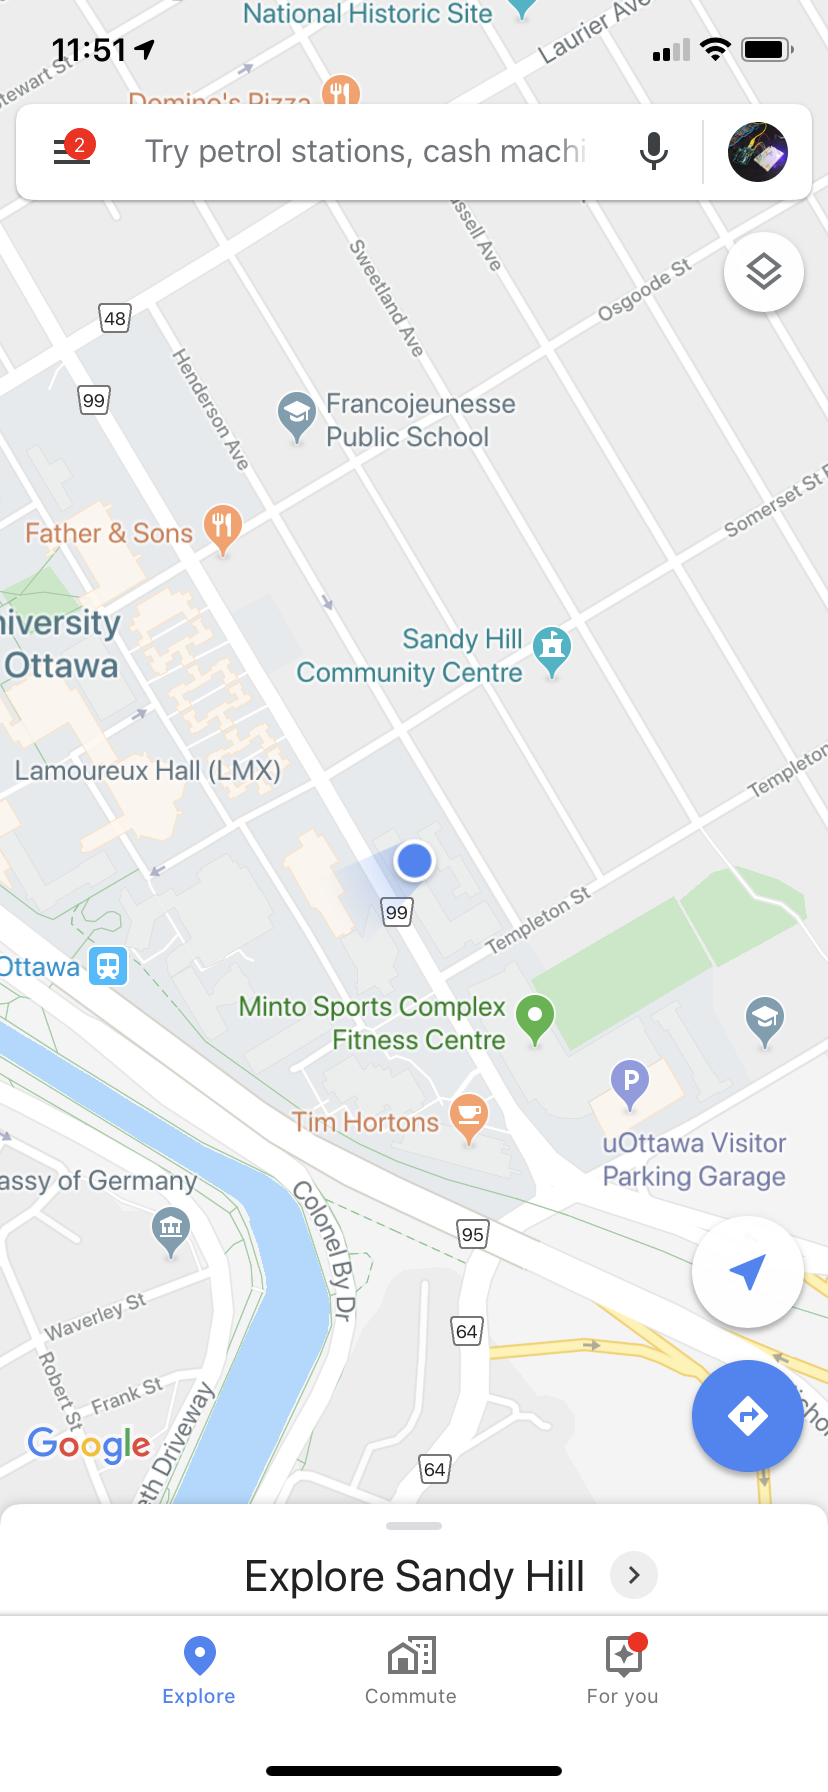
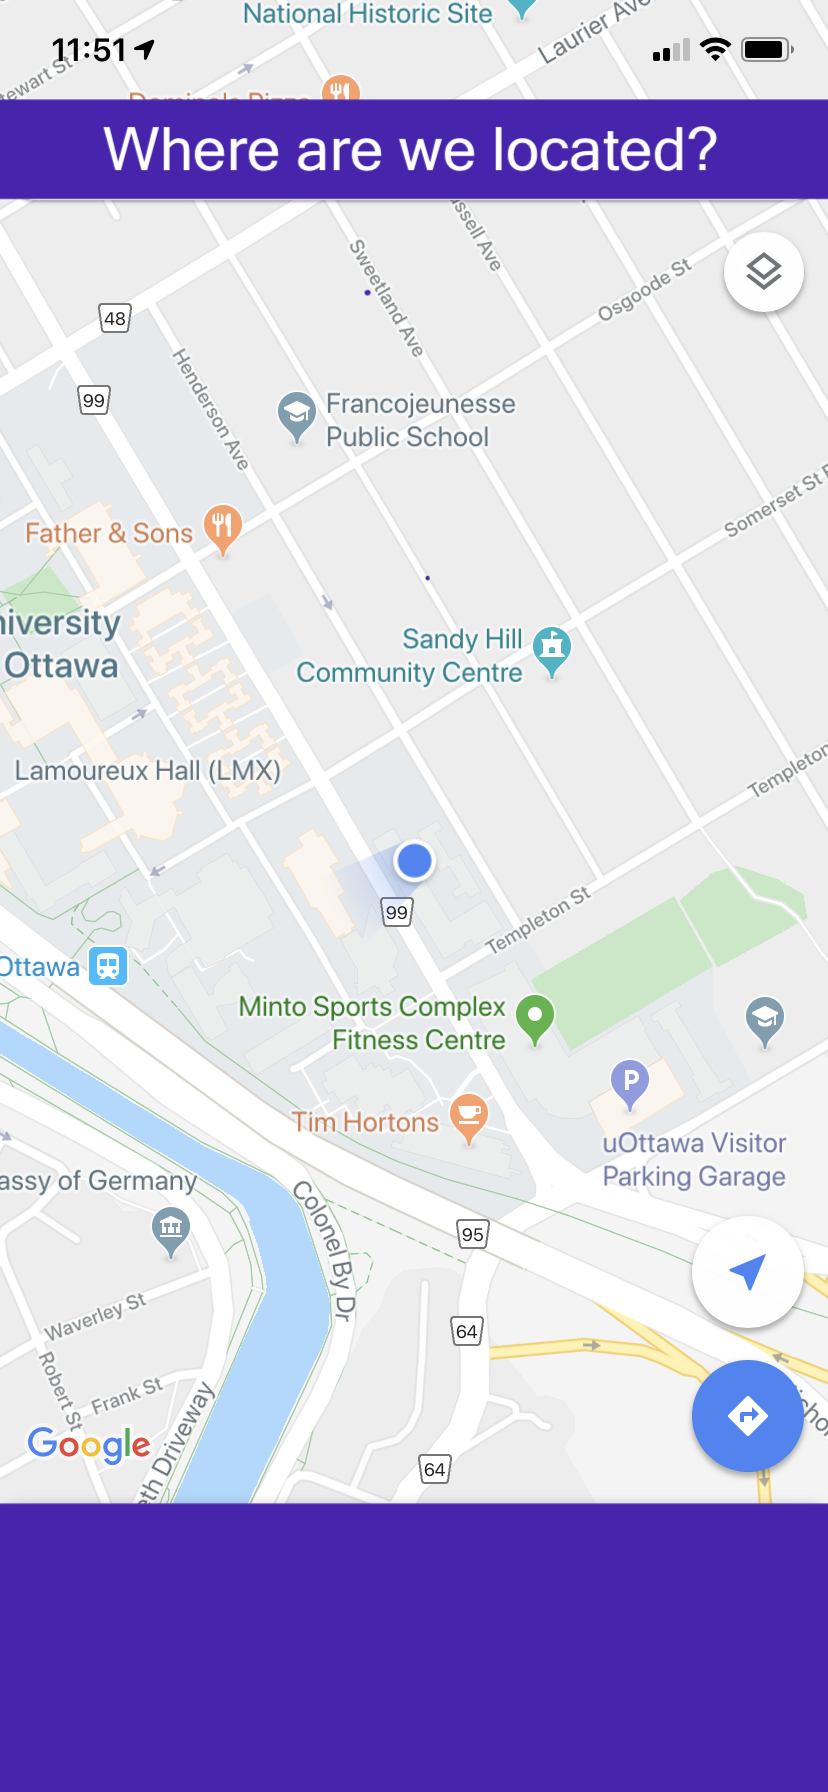
fixed phone on contact page:

Changed region(s): [[0.0, 0.8125, 1.0, 1.0], [0.0, 0.0312, 1.0, 0.125]]

diff --git a/style.css b/style.css
@@ -1000,14 +1000,21 @@
 	
 	position: relative;
 	z-index: 0;
+
 }
 
 .phone-map-block img.phone-def {	
-	width: 40%;
-	height: 40%;
+	padding-top: 18%;
+	padding-left: 18%;
+	
+	width: 33%;
+	height: 81%;
 	
 	z-index: 1;
 	position: absolute;
+	
+	left:0;
+	top:0; 
 }
 
 .five {
@@ -1047,6 +1054,7 @@
 
 .five .contact-page {
 	padding-left: 10px;
+	border-right: 0px;
 }
 
 .five .contact-page h1.hsecond-1 {
